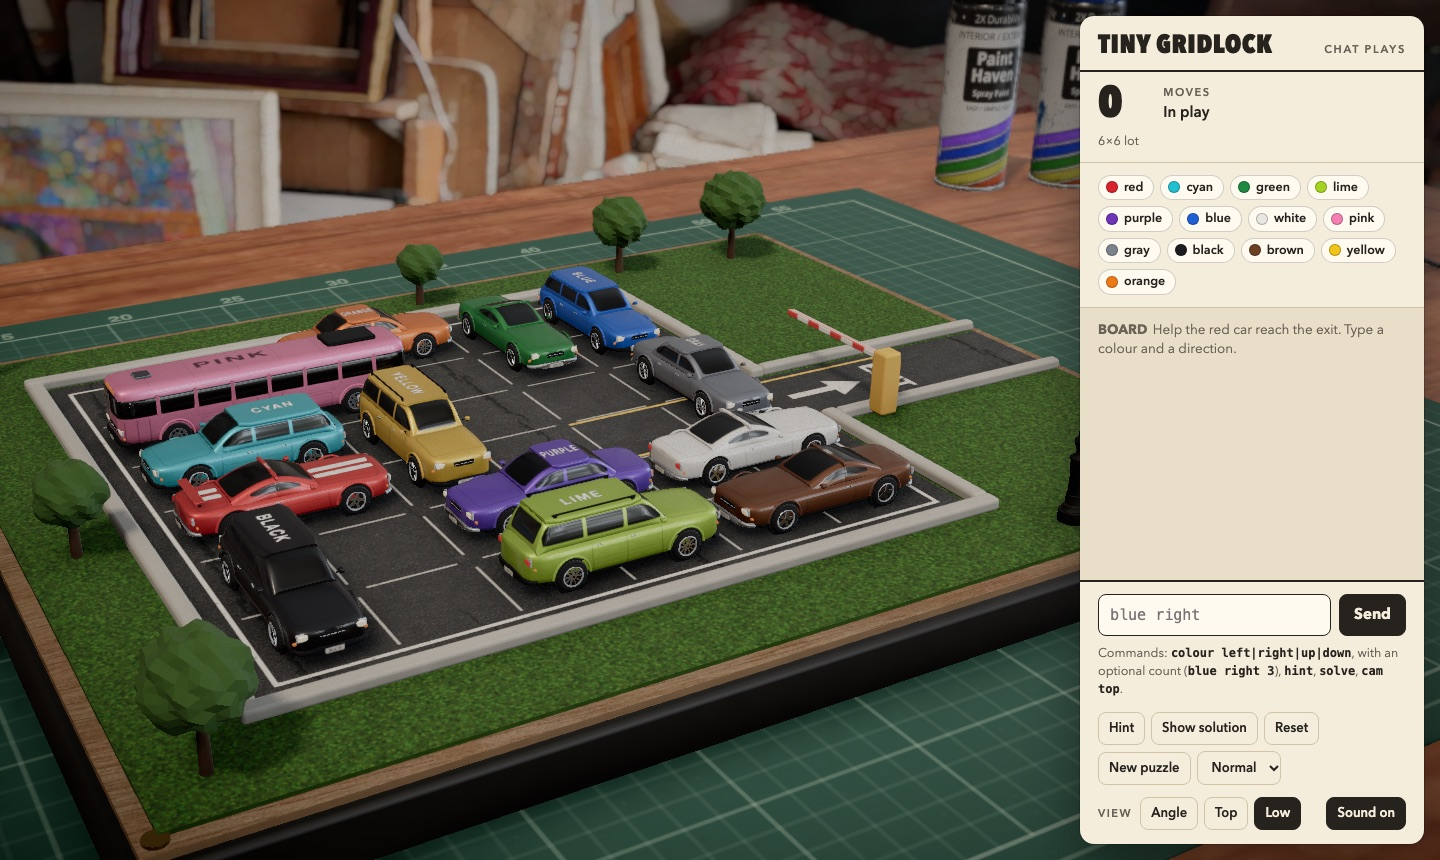
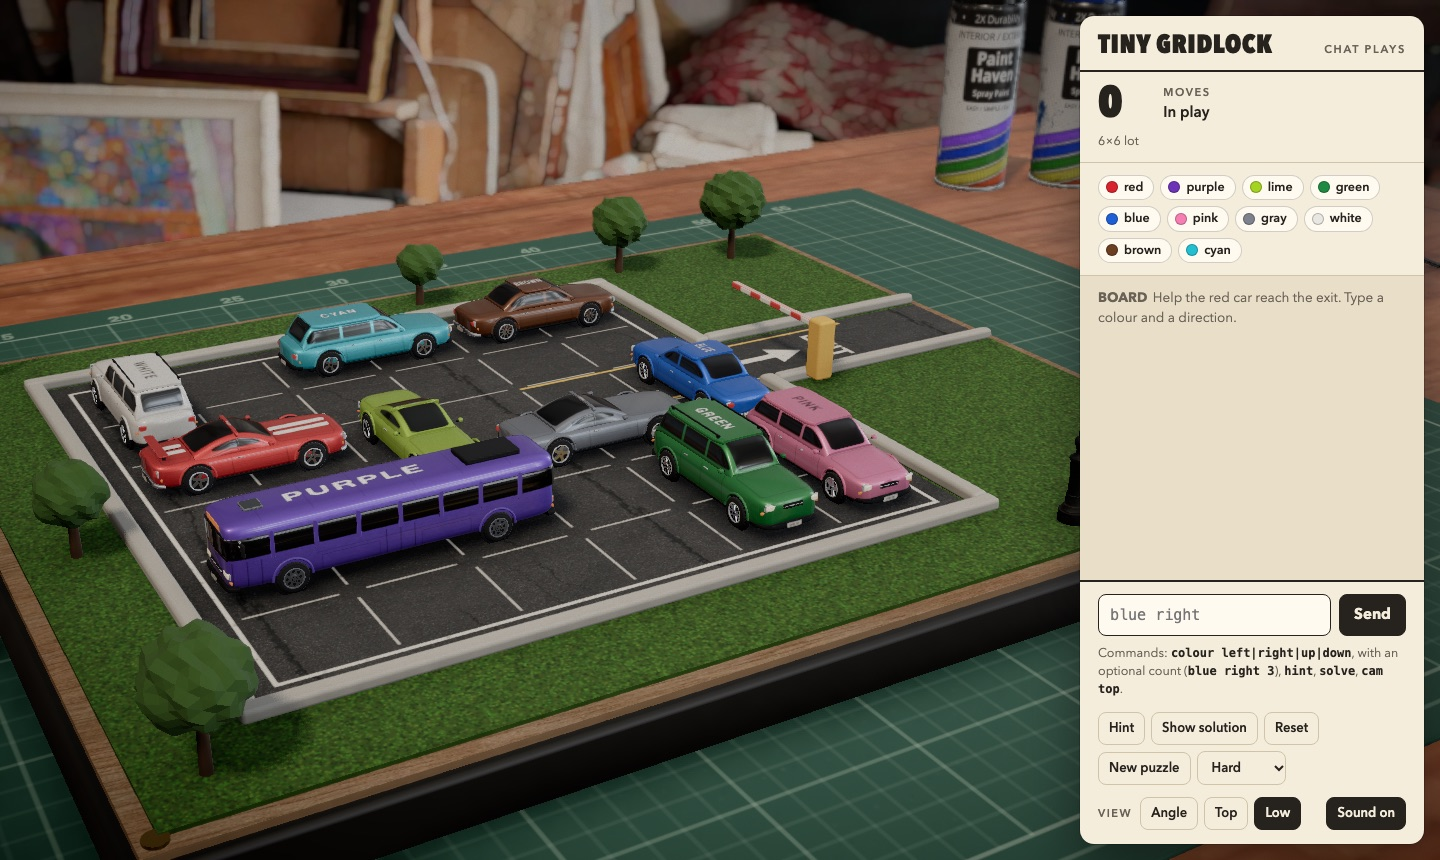
Add an easier bottom level and rename the levels: Easy, Medium, Hard, Expert, Master
Easy is new: 40 generated 6x6 puzzles with a shortest solution of 6 to 11 one-cell moves (3 to 10 slides). The game starts on it. The 160 earlier puzzles are unchanged; their levels move up one name (easy to medium, normal to hard, hard to expert, expert to master). evolve.js search --max M keeps only short layouts. The range chart places narrow level names beside each other.

diff --git a/diorama/tools/evolve.js b/diorama/tools/evolve.js
@@ -2,7 +2,11 @@
 // quality-diversity evolutionary algorithm. No puzzle is written by hand.
 //
 //   bun tools/evolve.js search --n 7 --seconds 300 --seed 1   -> tools/archive/n7-s1.json
+//   bun tools/evolve.js search --n 6 --max 11 --seconds 60 --seed 1  -> tools/archive/n6-max11-s1.json
 //   bun tools/evolve.js bank                                  -> src/puzzles.json
+//
+// With --max the search keeps only layouts whose shortest solution has at most that many moves:
+// the short puzzles of the lowest level, which the search for long solutions leaves thin.
 //
 // A layout (vehicles and walls) is the genome. The exact solver scores it: the start is the
 // position of that layout that is farthest from the exit. The archive keeps the best layout for
@@ -155,7 +159,7 @@ function evaluate(g, random) {
 }
 const cellKey = (e) => Math.floor(e.moves / BUCKET) + ':' + e.cars.length;
 
-function search({ n: N, seconds, seed }) {
+function search({ n: N, seconds, seed, max = 0 }) {
   const random = rng(seed),
     archive = new Map(),
     t0 = performance.now();
@@ -165,15 +169,16 @@ function search({ n: N, seconds, seed }) {
   const offer = (g) => {
     const e = evaluate(g, random);
     evals++;
-    if (!e) return;
-    const k = cellKey(e),
+    if (!e || (max && e.moves > max)) return;
+    // A short search has few move counts, so each count gets its own archive cell.
+    const k = max ? e.moves + ':' + e.cars.length : cellKey(e),
       old = archive.get(k);
     if (!old || e.quality > old.quality) {
       archive.set(k, e);
       kept++;
     }
   };
-  while (archive.size < 40) offer(randomLayout(N, random));
+  while (archive.size < (max ? 12 : 40)) offer(randomLayout(N, random));
   let elites = [...archive.values()],
     top = 0;
   while (performance.now() - t0 < seconds * 1000) {
@@ -183,7 +188,7 @@ function search({ n: N, seconds, seed }) {
     }
     // Half of the parents come from the longer half of the archive, to keep pressure on length.
     let p = elites[Math.floor(random() * elites.length)];
-    if (random() < 0.5) for (let t = 0; t < 4 && p.moves < top * 0.5; t++) p = elites[Math.floor(random() * elites.length)];
+    if (!max && random() < 0.5) for (let t = 0; t < 4 && p.moves < top * 0.5; t++) p = elites[Math.floor(random() * elites.length)];
     const r = random();
     if (r < 0.04) offer(randomLayout(N, random));
     else if (r < 0.2) offer(mutate(cross(p, elites[Math.floor(random() * elites.length)], random), random));
@@ -197,7 +202,7 @@ function search({ n: N, seconds, seed }) {
   }
   mkdirSync(here('./archive/'), { recursive: true });
   const out = [...archive.values()].sort((x, y) => x.moves - y.moves);
-  writeFileSync(here(`./archive/n${N}-s${seed}.json`), JSON.stringify(out));
+  writeFileSync(here(`./archive/n${N}${max ? '-max' + max : ''}-s${seed}.json`), JSON.stringify(out));
   console.log(`n=${N} seed=${seed} done: evals=${evals} kept=${kept} cells=${out.length} longest=${out.at(-1).moves}`);
 }
 
@@ -210,7 +215,9 @@ function bank({ per = 40 }) {
   for (const [key, level] of Object.entries(LEVELS)) {
     const seen = new Set();
     const pool = all
-      .filter((e) => e.N === level.N && e.moves >= level.min && e.moves <= level.max && e.stuck <= 1 && e.used >= Math.min(e.cars.length - 1, 7))
+      .filter(
+        (e) => e.N === level.N && e.moves >= level.min && e.moves <= level.max && e.slides >= 3 && e.stuck <= 1 && e.used >= Math.min(e.cars.length - 1, 7),
+      )
       .filter((e) => {
         const k = JSON.stringify([e.cars.map((v) => [v.axis, v.lane, v.len]), e.walls]);
         return !seen.has(k) && seen.add(k);
@@ -254,4 +261,4 @@ const [cmd, ...rest] = process.argv.slice(2),
 for (let i = 0; i < rest.length; i += 2) opt[rest[i].replace(/^--/, '')] = Number(rest[i + 1]);
 if (cmd === 'search') search({ n: 6, seconds: 60, seed: 1, ...opt });
 else if (cmd === 'bank') bank(opt);
-else console.log('usage: bun tools/evolve.js search --n 6|7|8 --seconds S --seed K | bank [--per 40]');
+else console.log('usage: bun tools/evolve.js search --n 6|7|8 --seconds S --seed K [--max M] | bank [--per 40]');

diff --git a/diorama/index.html b/diorama/index.html
@@ -508,10 +508,11 @@
       <p class="lede">Chat drives the cars. Type <code>blue right</code> to slide a car, and work together to get the red one out of the car park.</p>
       <fieldset class="levels">
         <legend>Difficulty</legend>
-        <label><input type="radio" name="level" value="easy" /><span>Easy</span></label>
-        <label><input type="radio" name="level" value="normal" checked /><span>Normal</span></label>
+        <label><input type="radio" name="level" value="easy" checked /><span>Easy</span></label>
+        <label><input type="radio" name="level" value="medium" /><span>Medium</span></label>
         <label><input type="radio" name="level" value="hard" /><span>Hard</span></label>
         <label><input type="radio" name="level" value="expert" /><span>Expert</span></label>
+        <label><input type="radio" name="level" value="master" /><span>Master</span></label>
         <label title="The game picks each puzzle from how you solved the last one"><input type="radio" name="level" value="auto" /><span>Auto</span></label>
       </fieldset>
       <div class="go">
@@ -546,9 +547,10 @@
         <button id="login" type="button" hidden title="Lets the game reply in Twitch chat">Log in to Twitch</button>
         <select id="level" aria-label="Difficulty">
           <option value="easy">Easy</option>
-          <option value="normal">Normal</option>
+          <option value="medium">Medium</option>
           <option value="hard">Hard</option>
           <option value="expert">Expert</option>
+          <option value="master">Master</option>
           <option value="auto">Auto</option>
         </select>
         <span class="sep"></span>

diff --git a/diorama/tools/range.js b/diorama/tools/range.js
@@ -103,10 +103,13 @@ sizes.forEach((N, col) => {
       `<rect x="${r1(x(b * BUCKET) + 0.5)}" y="${r1(y(n + 0.5) + 0.5)}" width="${r1((PW * BUCKET) / xMax - 1)}" height="${r1(PH / yMax - 1)}" fill="${CELL}"><title>${b * BUCKET}-${b * BUCKET + 3} moves, ${n} vehicles</title></rect>`,
     );
   }
-  for (const [key, l] of levels) {
+  for (const [i, [key, l]] of levels.entries()) {
     // the move range of each level, named above the plot
     out.push(`<path d="M${r1(x(l.min))} ${TOP1 - 6}v-5H${r1(x(l.max))}v5" fill="none" stroke="${SECOND}"/>`);
-    text((x(l.min) + x(l.max)) / 2, TOP1 - 15, key, { anchor: 'middle' });
+    // A name wider than its range would run into the next name: the first one then ends at
+    // its range and a later one starts at it.
+    if (x(l.max) - x(l.min) >= key.length * 6.5) text((x(l.min) + x(l.max)) / 2, TOP1 - 15, key, { anchor: 'middle' });
+    else text(i ? x(l.min) + 2 : x(l.max) - 2, TOP1 - 15, key, { anchor: i ? 'start' : 'end' });
   }
   for (const e of picks)
     out.push(

diff --git a/diorama/src/main.js b/diorama/src/main.js
@@ -31,7 +31,7 @@ let demo = null,
   shown = 0; // the moves that a replay made since the last Reset
 let cars = [],
   boardInfo = null,
-  level = Object.hasOwn(LEVELS, params.get('level')) || params.get('level') === 'auto' ? params.get('level') : 'normal';
+  level = Object.hasOwn(LEVELS, params.get('level')) || params.get('level') === 'auto' ? params.get('level') : 'easy';
 // The Auto level (adapt.js): the place on the ladder, the puzzles played, and the last result.
 // `spent` holds the moves made before a Reset, so a Reset does not hide them from the result.
 let skill = START,

diff --git a/diorama/src/engine.js b/diorama/src/engine.js
@@ -19,10 +19,11 @@ export const NAMES = [
 ];
 // min and max count one-cell moves of the shortest solution, the exit move included.
 export const LEVELS = {
-  easy: { N: 6, min: 12, max: 20 },
-  normal: { N: 6, min: 28, max: 44 },
-  hard: { N: 7, min: 55, max: 85 },
-  expert: { N: 8, min: 100, max: 160 },
+  easy: { N: 6, min: 6, max: 11 },
+  medium: { N: 6, min: 12, max: 20 },
+  hard: { N: 6, min: 28, max: 44 },
+  expert: { N: 7, min: 55, max: 85 },
+  master: { N: 8, min: 100, max: 160 },
 };
 export const WALL = 127;
 

diff --git a/diorama/README.md b/diorama/README.md
@@ -66,10 +66,15 @@ Planters are fixed obstacles: no vehicle can pass them.
 
 | Level  | Lot | Shortest solution |
 | ------ | --- | ----------------- |
-| Easy   | 6×6 | 12 to 20 moves    |
-| Normal | 6×6 | 28 to 44 moves    |
-| Hard   | 7×7 | 55 to 85 moves    |
-| Expert | 8×8 | 100 to 160 moves  |
+| Easy   | 6×6 | 6 to 11 moves     |
+| Medium | 6×6 | 12 to 20 moves    |
+| Hard   | 6×6 | 28 to 44 moves    |
+| Expert | 7×7 | 55 to 85 moves    |
+| Master | 8×8 | 100 to 160 moves  |
+
+The game starts on Easy. Easy is the level for a first game and for a class: a puzzle takes 3
+to 10 slides and has 2 to 9 vehicles. The four levels above it were named Easy, Normal, Hard and Expert until 16
+November 2026; their puzzles did not change.
 
 One move is one cell. The game deals 40 puzzles per level without repeats, with random colours
 and a random top-bottom mirror.
@@ -77,7 +82,7 @@ and a random top-bottom mirror.
 ### Auto level
 
 With **Auto**, the game chooses each puzzle from how the audience played the last one
-(`src/adapt.js`). All 160 puzzles form one ladder, ordered by shortest solution.
+(`src/adapt.js`). All 200 puzzles form one ladder, ordered by shortest solution.
 
 | Last puzzle                                                                                   | Next puzzle                  |
 | --------------------------------------------------------------------------------------------- | ---------------------------- |
@@ -111,6 +116,7 @@ with MAP-Elites, a quality-diversity evolutionary algorithm.
 
 ```sh
 bun tools/evolve.js search --n 8 --seconds 300 --seed 1   # writes tools/archive/n8-s1.json
+bun tools/evolve.js search --n 6 --max 11 --seconds 45 --seed 31   # short puzzles only, for Easy
 bun tools/evolve.js bank                                  # picks src/puzzles.json from all archives
 bun test                                                  # solver and bank checks
 ```
@@ -124,10 +130,11 @@ solver runs in a worker and gives the hints.
 
 `bun tools/range.js` draws this chart. The expressive range of a generator is the set of
 content that it can make, shown over a few measures (the book, section 9.7.3). The top row
-shows each kind of puzzle that the search found, and the 160 puzzles that the bank took.
+shows each kind of puzzle that the search found, and the 200 puzzles that the bank took.
 The search found puzzles up to 94 moves on 6×6, 138 on 7×7 and 160 on 8×8. The bank uses only
 a part of that range: the levels stop at 44 moves on 6×6 and 85 on 7×7, and 142 of the 160 bank
-puzzles have 9 or more vehicles, because the quality score favours busy lots.
+puzzles above Easy have 9 or more vehicles, because the quality score favours busy lots. Easy
+is different: a short solution moves few vehicles, so 39 of its 40 puzzles have fewer than 9.
 
 ### A second difficulty measure
 
@@ -142,9 +149,9 @@ with independent calculations.
   this model predict the solving time equally well: Spearman correlation 0.90 for each. The
   size of the state space does not predict it. So the shortest solution stays the measure
   that defines the levels.
-- In the bank, the two measures agree closely: rank correlation 0.99 over all 160 puzzles, and
-  0.94 (Easy), 0.91 (Normal), 0.89 (Hard) and 0.81 (Expert) inside a level. The values go
-  from 18 to 11,364 expected moves. The bottom row of the chart shows both measures.
+- In the bank, the two measures agree closely: rank correlation 1.00 (rounded) over all 200 puzzles,
+  and 0.97 (Easy), 0.94 (Medium), 0.91 (Hard), 0.89 (Expert) and 0.81 (Master) inside a level.
+  The values go from 7 to 11,364 expected moves. The bottom row of the chart shows both measures.
 - The model's weight of 25 comes from the paper. Nobody has fitted it to this game, where one
   move is one cell, and the paper has no 7×7 or 8×8 puzzles.
 
@@ -160,7 +167,7 @@ and counts a move as one slide of any length. `bun tools/fogleman.js path/to/rus
 each 6×6 bank puzzle in it. The database is not in this repository, because its page states
 no licence for it.
 
-|                                                  | Easy                         | Normal                        |
+|                                                  | Medium                       | Hard                          |
 | ------------------------------------------------ | ---------------------------- | ----------------------------- |
 | Bank puzzles found in the database               | 38 of 40                     | 39 of 40                      |
 | Shortest solution in one-cell moves              | 12 to 20                     | 29 to 44                      |
@@ -172,9 +179,10 @@ no licence for it.
   independent check of the solver.
 - The other three puzzles each have a vehicle or a planter that the hardest position does not
   need. The database leaves such puzzles out.
-- The hardest puzzle of the database takes 60 slides (51 without walls). The hardest Normal
+- The hardest puzzle of the database takes 60 slides (51 without walls). The hardest Hard
   puzzle takes 30 slides, and the search archive for 6×6 reaches 94 one-cell moves.
-- The database covers 6×6 only, so nothing like it exists for the Hard and Expert levels.
+- The database covers 6×6 only, so nothing like it exists for the Expert and Master levels.
+- The Easy level was added on 16 November 2026 and is not compared with the database yet.
 
 [1] P. Jarušek and R. Pelánek, "What Determines Difficulty of Transport Puzzles?", Proc.
 FLAIRS-24, 2011. <https://cdn.aaai.org/ocs/2518/2518-11200-1-PB.pdf>
@@ -184,7 +192,7 @@ Predicting Human Planning Performance", Proc. CogSci 2011. <https://escholarship
 (read 15 November 2026).
 
 URL options for testing: `?skip=1` starts in play, `&cam=top|low` picks the view,
-`&level=easy|normal|hard|expert|auto` picks the difficulty.
+`&level=easy|medium|hard|expert|master|auto` picks the difficulty.
 
 ## Play through Twitch chat
 
